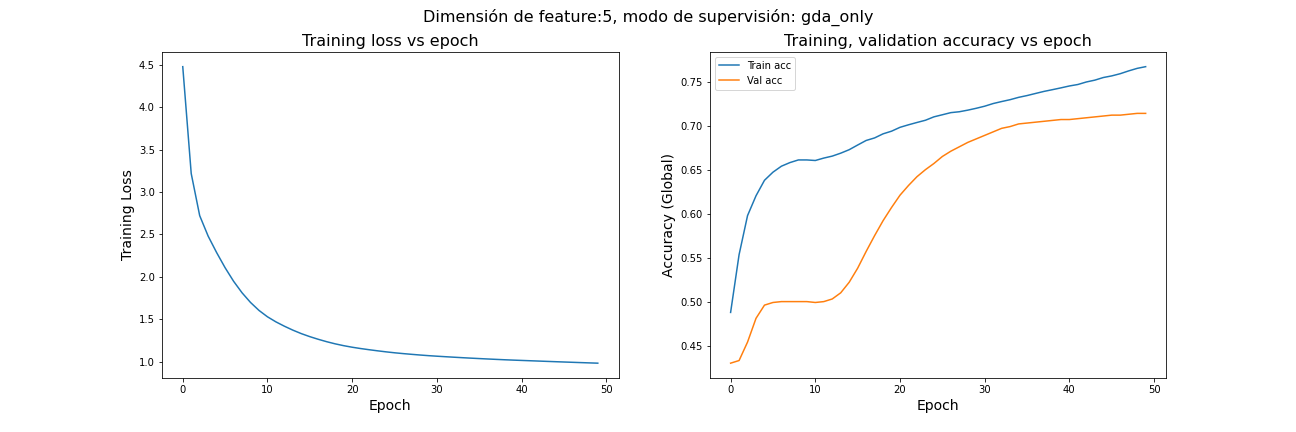
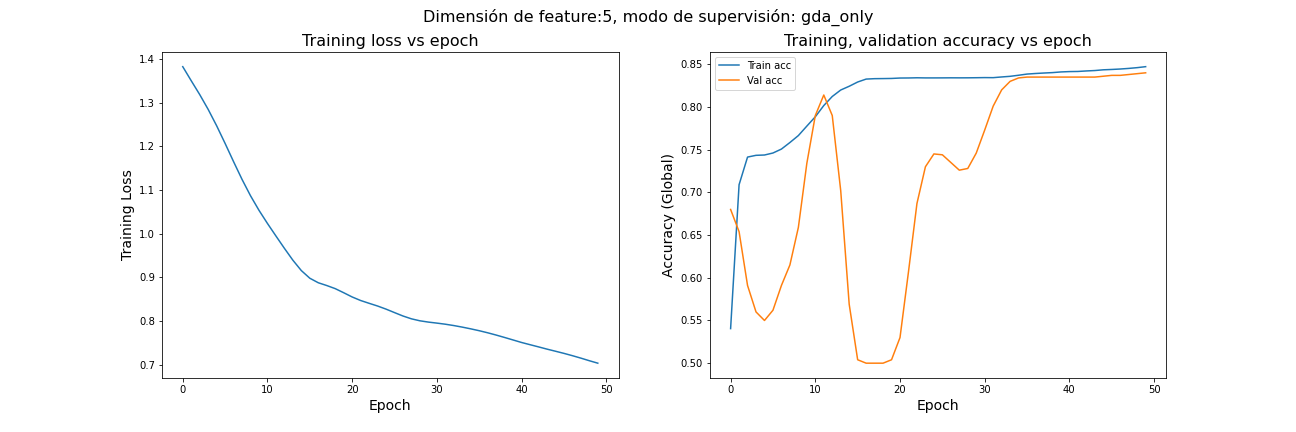
model demo script

diff --git a/exploration/model_exploration/convolutions.py b/exploration/model_exploration/convolutions.py
@@ -1,3 +1,4 @@
+#%%
 import torch
 import torch.nn as nn
 import torch_geometric.nn as pyg_nn
@@ -7,7 +8,7 @@ import deepsnap.hetero_gnn
 from prediction_heads import distmult_head
 from utils import edgeindex_to_sparsematrix
 
-quiet = False
+quiet = True
 
 def talk(msg, quiet=quiet):
     if not quiet:
@@ -27,6 +28,15 @@ def generate_convs(hetero_graph, conv, hidden_size, first_layer=False):
 
     return convs
 
+def hetero_apply_function(x: dict,func) -> dict:
+    """X es el diccionario de node embeddings o features, {node_type: tensor}.
+    Aplica func a cada entrada del diccionario, devuelve un dict de la misma forma."""
+    x_transformed = {}
+    for key,val in x.items():
+        transformed_val = func(val)
+        x_transformed[key] = transformed_val
+    
+    return x_transformed
 
 class HeteroGNNConv(pyg_nn.MessagePassing):
     def __init__(self, in_channels_src, in_channels_dst, out_channels):
@@ -35,24 +45,20 @@ class HeteroGNNConv(pyg_nn.MessagePassing):
         self.in_channels_src = in_channels_src
         self.in_channels_dst = in_channels_dst
         self.out_channels = out_channels
+
         self.lin_dst = nn.Linear(in_channels_dst, out_channels)
         self.lin_src = nn.Linear(in_channels_src, out_channels)
         self.lin_update = nn.Linear(2*out_channels, out_channels)
 
-    def forward(
-            self,
-            node_feature_src,
-            node_feature_dst,
-            edge_index,
-            size=None):
-
+    def forward(self,node_feature_src, node_feature_dst,edge_index):
         talk("HeteroGNN forward")
         talk(f"Node feature src shape: {node_feature_src.shape}, Node feature dst shape: {node_feature_dst.shape}, edge index shape: {edge_index.sparse_sizes()}")
-        out = self.propagate(edge_index, size, node_feature_src=node_feature_src, node_feature_dst=node_feature_dst)
+        out = self.propagate(edge_index, node_feature_src=node_feature_src,node_feature_dst=node_feature_dst)
         return out
 
     def message_and_aggregate(self, edge_index, node_feature_src):
         talk("HeteroGNN msg and agg")
+        talk(f"node_feature src shape: {node_feature_src.shape}")
         out = matmul(edge_index, node_feature_src, reduce=self.aggr)
         return out
 
@@ -65,7 +71,11 @@ class HeteroGNNConv(pyg_nn.MessagePassing):
 
         talk(f"Concat: dst_msg shape: {dst_msg.shape}, src_msg shape: {src_msg.shape}")
         full_msg = torch.concat((dst_msg, src_msg), dim=1)
+
+        talk(f"Full msg shape: {full_msg.shape}")
         out = self.lin_update(full_msg)
+
+        talk(f"After update shape: {out.shape}")
         return out
 
 
@@ -81,7 +91,7 @@ class HeteroGNNWrapperConv(deepsnap.hetero_gnn.HeteroConv):
         super().reset_parameters()
 
     def forward(self, node_features, edge_indices):
-        talk("Wrapper forward")
+        talk("\n ------ Wrapper forward ------ ")
         message_type_emb = {}
 
         for message_key, adj in edge_indices.items():
@@ -89,26 +99,48 @@ class HeteroGNNWrapperConv(deepsnap.hetero_gnn.HeteroConv):
             src_type, edge_type, dst_type = message_key
             node_feature_src = node_features[src_type]
             node_feature_dst = node_features[dst_type]
-            message_type_emb[message_key] = (self.convs[message_key](node_feature_src,node_feature_dst,adj))
 
+            message_type_emb[message_key] = self.convs[message_key](node_feature_src,node_feature_dst,adj)
+
+        # {dst: [] for src, type, dst in message_type.emb.keys()}
+        # {tipo de nodo: [lista de embeddings obtenidos]}
         node_emb = {dst: [] for _, _, dst in message_type_emb.keys()}
         mapping = {}
 
         for (src, edge_type, dst), item in message_type_emb.items():
+            #esto es para saber que indice es cada terna/msg type
             mapping[len(node_emb[dst])] = (src, edge_type, dst)
+
+            #Agrego el embedding de la terna (src,type,dst) al la lista de embeddings de dst
             node_emb[dst].append(item)
 
         self.mapping = mapping
+
+        #Ahora hago aggregation sobre las listas de embeddings, para cada tipo de nodo DST
+        talk("\n------ Wrapper agg ------")
         for node_type, embs in node_emb.items():
+            talk(f"\nAggregate {node_type} embeddings")
+
+            # Si hay un solo embedding en la lista, me quedo con ese solito
             if len(embs) == 1:
+                talk(f"Num embeddings = 1, no AGG needed")
                 node_emb[node_type] = embs[0]
+            
+            #Si hay más de uno hago aggregation
             else:
                 node_emb[node_type] = self.aggregate(embs)
         return node_emb
 
     def aggregate(self, xs):
-        talk("Wrapper agg") 
-        return torch.mean(torch.stack(xs, dim=-1), dim=-1)
+        # Tomo la lista de embeddings para cada tipo de nodo y los "agrego". En este caso solo los promedio
+        # Stackeo los embeddings
+        talk(f"Num embeddings: {len(xs)}")
+        talk(f"Shape embeddings: {[e.shape for e in xs]}")
+        stacked = torch.stack(xs, dim=0)
+        talk(f"Stacked shape: {stacked.shape}")
+        out = torch.mean(stacked,dim=0)
+        talk(f"Final aggregated shape: {out.shape}")
+        return out
 
 
 
@@ -121,12 +153,10 @@ class HeteroGNN(torch.nn.Module):
         self.pred_mode = pred_mode
         self.hidden_size = args['hidden_size']
         self.bns1 = torch.nn.ModuleDict()
-        self.bns2 = torch.nn.ModuleDict()
         self.relus1 = torch.nn.ModuleDict()
-        self.relus2 = torch.nn.ModuleDict()
         self.loss_fn = torch.nn.BCEWithLogitsLoss()
         
-        if head=="dismult":
+        if head=="distmult":
           self.distmult_head = distmult_head(hetero_graph,self.hidden_size)
 
         convs1 = generate_convs(hetero_graph, HeteroGNNConv, self.hidden_size, first_layer=True)
@@ -135,52 +165,74 @@ class HeteroGNN(torch.nn.Module):
         self.convs2 = HeteroGNNWrapperConv(convs2, args, aggr=self.aggr)
         for node_type in hetero_graph.node_types:
             self.bns1[node_type] = torch.nn.BatchNorm1d(self.hidden_size)
-            self.bns2[node_type] = torch.nn.BatchNorm1d(self.hidden_size)
             self.relus1[node_type] = torch.nn.LeakyReLU()
-            self.relus2[node_type] = torch.nn.LeakyReLU()
     
 
     def forward(self, graph):
-        talk("General forward")
+        talk(" ------ ENCODER ------ ")
         x, edge_label_index = graph.node_feature, graph.edge_label_index
         adj = edgeindex_to_sparsematrix(graph)
         talk("Conv 1")
         x = self.convs1(x, edge_indices=adj)
-        talk("BNS 1")
+
+        talk("\n BNS 1")
         x = deepsnap.hetero_gnn.forward_op(x, self.bns1)
-        talk("Relu 1")
+
+        talk("\n Relu 1")
         x = deepsnap.hetero_gnn.forward_op(x, self.relus1)
-        talk("Conv 2")
+
+        talk("\n Conv 2")
         x = self.convs2(x, edge_indices=adj)
-        talk("BNS 2")
-        x = deepsnap.hetero_gnn.forward_op(x, self.bns2)
+
+        talk("\n----------")
+        talk(f"Node embeddings done. Dimentions: {[(k,item.shape) for k,item in x.items()]}")
+        talk("---------")
+        # talk("Normalizing embeddings")
+        # x = hetero_apply_function(x,torch.nn.functional.normalize)
 
 
         if self.head == "dotprod":
-          talk("General decoder")
+          talk("\n ------ DECODER ------ ")
           pred = {}
           if self.pred_mode == "all":
-            for message_type in edge_label_index:
+            for message_type, edge_index in edge_label_index.items():
+                talk(f"\n Decoding edge type: {message_type}")
                 src_type = message_type[0]
                 trg_type = message_type[2]
-                nodes_first = torch.index_select(x[src_type], 0, edge_label_index[message_type][0,:].long())
-                nodes_second = torch.index_select(x[trg_type], 0, edge_label_index[message_type][1,:].long())
-                pred[message_type] = torch.sum(nodes_first * nodes_second, dim=-1)
+
+                x_source = x[src_type]
+                x_target = x[trg_type]
+
+                nodes_src = x_source[edge_index[0]]
+                nodes_trg = x_target[edge_index[1]]
+
+                talk(f"\n Multiplying shapes: {nodes_src.shape}, {nodes_trg.shape}")
+                pred[message_type] = torch.sum(nodes_src * nodes_trg, dim=-1)
+
           elif self.pred_mode == "gda_only":
             keys = [('gene_protein', 'gda', 'disease'), ('disease', 'gda', 'gene_protein')]
             for message_type in keys:
-              src_type = message_type[0]
-              trg_type = message_type[2]
-              nodes_first = torch.index_select(x[src_type], 0, edge_label_index[message_type][0,:].long())
-              nodes_second = torch.index_select(x[trg_type], 0, edge_label_index[message_type][1,:].long())
-              pred[message_type] = torch.sum(nodes_first * nodes_second, dim=-1)
+                talk(f"\n Decoding edge type: {message_type}")
+                edge_index = edge_label_index[message_type]
+                src_type = message_type[0]
+                trg_type = message_type[2]
+
+                x_source = x[src_type]
+                x_target = x[trg_type]
+
+                nodes_src = x_source[edge_index[0]]
+                nodes_trg = x_target[edge_index[1]]
+                talk(f"\n Multiplying shapes: {nodes_src.shape}, {nodes_trg.shape}")
+                pred[message_type] = torch.sum(nodes_src * nodes_trg, dim=-1)
+
           return pred
+
         elif self.head == "distmult":
           return self.distmult_head.score(x,edge_label_index)
           
     def loss(self, pred, y):
         loss = 0
-        sets = torch.tensor(len(pred.keys()))
+        # sets = torch.tensor(len(pred.keys()))
         for key in pred:
             p = pred[key]
             loss += self.loss_fn(p, y[key].type(pred[key].dtype))

diff --git a/exploration/model_exploration/utils.py b/exploration/model_exploration/utils.py
@@ -4,16 +4,19 @@ from deepsnap.hetero_graph import HeteroGraph
 import networkx as nx
 from torch_sparse import SparseTensor
 from collections import Counter
+import pandas as pd
 
 def get_prediction(model,H:HeteroGraph) -> dict:
     prediction = {}
+    scores = {}
     with torch.no_grad():
         preds = model(H)
         for key,pred in preds.items():
             logits = torch.sigmoid(pred)
             pred_label = torch.round(logits)
             prediction[key] = pred_label
-    return prediction
+            scores[key] = torch.round(logits,decimals=3)
+    return prediction,scores
 
 def get_edge_data(H:HeteroGraph, type:tuple) -> dict:
     """(n1,n2): {attr dict}"""
@@ -121,3 +124,45 @@ def init_multiple_features(G,modes_sizes:dict) -> dict:
 def set_feature(split,init_mode,feature_length):
   feature_key = f"{init_mode}_{feature_length}"
   split.__setattr__("node_feature",split[feature_key])
+
+
+def map_prediction_to_edges(prediction:dict,H:HeteroGraph, edge_to_label = True) -> dict:
+  """Dada una predicción, devuelve un diccionario que mapea el edge (u,v) a la etiqueta predecida.
+  El mapa corresponde a los enlaces en el dataset usado: si se predijo sobre val, pasar dataset val al argument
+  esto es importante porque los indices no se conservan en los splits
+  if edge_to_label el dict es {(u,v):label}, sino es {label:[(u,v),...]}"""
+
+  prediction_map = {}
+  for edge_type,pred in prediction.items():
+    predicted_labels = pred.tolist()
+    labeled_edges = tensor_to_edgelist(H.edge_label_index[edge_type])
+    pred_map = {edge:label for edge,label in zip(labeled_edges,predicted_labels)}
+    if edge_to_label:
+      prediction_map[edge_type] = pred_map
+    else:
+      positives = [edge for edge,val in pred_map.items() if val==1]
+      negatives = [edge for edge,val in pred_map.items() if val==0]
+      prediction_map[edge_type] = {1:positives, 0:negatives}
+  return prediction_map
+
+def get_prediction_dataframe(scores,H)-> dict:
+  """Dado un tensor de predicción, devuelve un dataframe con un enlace por fila y su info.
+  El tensor de input es una predicción en formato torch.tensor([1,0,1...]). Los índices de ese tensor corresponden a los indices del enlace.
+  Esos índices dependen del grafo del cual salieron, por eso hay que también pasar el dataset como argumento
+  Esta función traduce los indices a enlaces y busca sus datos, devuelve todo en un dataframe"""
+
+  results = {}
+  edge_to_label_dict = map_prediction_to_edges(scores,H)
+  for edgetype,pred in edge_to_label_dict.items():
+    src_type, relation, trg_type = edgetype
+    src_info = get_node_data(H,src_type)
+    trg_info = get_node_data(H,trg_type)
+    for edge, label in pred.items():
+      src,trg = edge
+      results[edge] = {"type":relation,"source_index":src_info[src]["data"]["node_dataset_index"],"target_index":trg_info[trg]["data"]["node_dataset_index"],"source_type":src_info[src]["data"]["node_type"],"target_type":trg_info[trg]["data"]["node_type"],"source_name":src_info[src]["data"]["node_name"], "target_name":trg_info[trg]["data"]["node_name"] ,"score":label}
+  
+  frame = pd.DataFrame.from_dict(results, orient="index")
+  frame["label"] = frame["score"].round()
+  frame = frame.sort_values(by="score",ascending=False)
+
+  return frame

diff --git a/exploration/model_exploration/model_demo.py b/exploration/model_exploration/model_demo.py
@@ -156,19 +156,15 @@ G = graph_data.to_directed()
 #placeholder feature:
 nx.set_node_attributes(G,[],"node_feature")
 #inicializo features
-utils.init_multiple_features(G,{"random":[5,10,50,100,500]})
+utils.init_multiple_features(G,{"random":[5]})
 
 utils.check_symmetry_test(G)
 Hete = HeteroGraph(G)
 
+utils.set_feature(Hete,"random",5)
+
 task = 'link_pred'
-train_mode = "disjoint"
 
-dataset = GraphDataset([Hete], task=task, edge_train_mode=train_mode, resample_negatives=True)
-dataset_train, dataset_val, dataset_test = dataset.split(transductive=True, split_ratio=[0.4, 0.3, 0.3])
-train_data, val_data, test_data = dataset_train[0], dataset_val[0], dataset_test[0]
-
-#%%
 args = {
     'device': torch.device('cuda' if torch.cuda.is_available() else 'cpu'),
     'hidden_size': 32,
@@ -177,18 +173,8 @@ args = {
     'epochs':50,
     'k_hits':[50,200]
 }
-#%%
-all_results = {}
-models = {}
-supervision = ["all","gda_only"]
-feature_len = [5,10,50]
-train_mode = "disjoint"
 
-for sup in supervision:
-  for flen in feature_len:
-    print(sup,flen)
-    result,model = optimization_iteration(Hete,train_data,val_data,train_mode,sup,"dotprod",flen,"random",args,"figures/")
-    all_results[(sup,flen)] = result
-    models[(sup,flen)] = model
-# %%
-all_results
+model = convolutions.HeteroGNN(Hete,"dotprod","gda_only",args)
+#%%
+model(Hete)
+#%%
